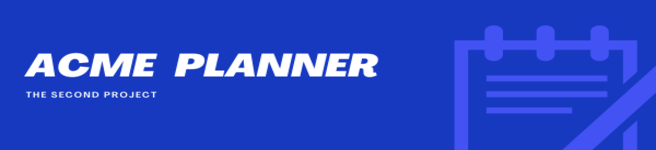
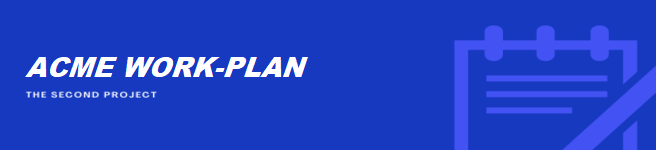
Cambio de nombre a Acme-Work-Plans

Changed region(s): [[0.0305, 0.3467, 0.5793, 0.5333]]

diff --git a/src/main/java/acme/features/manager/task/ManagerTaskCreateService.java b/src/main/java/acme/features/manager/task/ManagerTaskCreateService.java
@@ -124,7 +124,7 @@ public class ManagerTaskCreateService implements AbstractCreateService<Manager, 
 				errors.state(request, !end.equals(ini), "ending", "manager.task.form.ending.error3");
 				errors.state(request, !end.equals(ini), "beginning", "manager.task.form.beginning.error2");
 				errors.state(request, decimals < 60, "workload", "manager.task.form.workload.error1");
-				errors.state(request, Double.valueOf(workload) > 0, "workload", "manager.task.form.workload.error2");
+				errors.state(request, Double.valueOf(workload) > 0 && Double.valueOf(workload) < 100, "workload", "manager.task.form.workload.error2");
 				errors.state(request, minutes >= workloadMinutes, "workload", "manager.task.form.workload.error3");
 				errors.state(request, decimalsString.length() <= 2, "workload", "manager.task.form.workload.error4");
 				errors.state(request, !validaSpam.validateSpam(title, spam), "title", "manager.task.form.title.error");

diff --git a/src/main/java/acme/features/manager/task/ManagerTaskUpdateService.java b/src/main/java/acme/features/manager/task/ManagerTaskUpdateService.java
@@ -118,7 +118,7 @@ public class ManagerTaskUpdateService implements AbstractUpdateService<Manager, 
 				errors.state(request, !end.equals(ini), "beginning", "manager.task.form.beginning.error2");
 				
 				errors.state(request, decimals < 60, "workload", "manager.task.form.workload.error1");
-				errors.state(request, Double.valueOf(workload) > 0, "workload", "manager.task.form.workload.error2");
+				errors.state(request, Double.valueOf(workload) > 0 && Double.valueOf(workload) < 100, "workload", "manager.task.form.workload.error2");
 				errors.state(request, minutes >= workloadMinutes, "workload", "manager.task.form.workload.error3");
 				errors.state(request, decimalsString.length() <= 2, "workload", "manager.task.form.workload.error4");
 				
